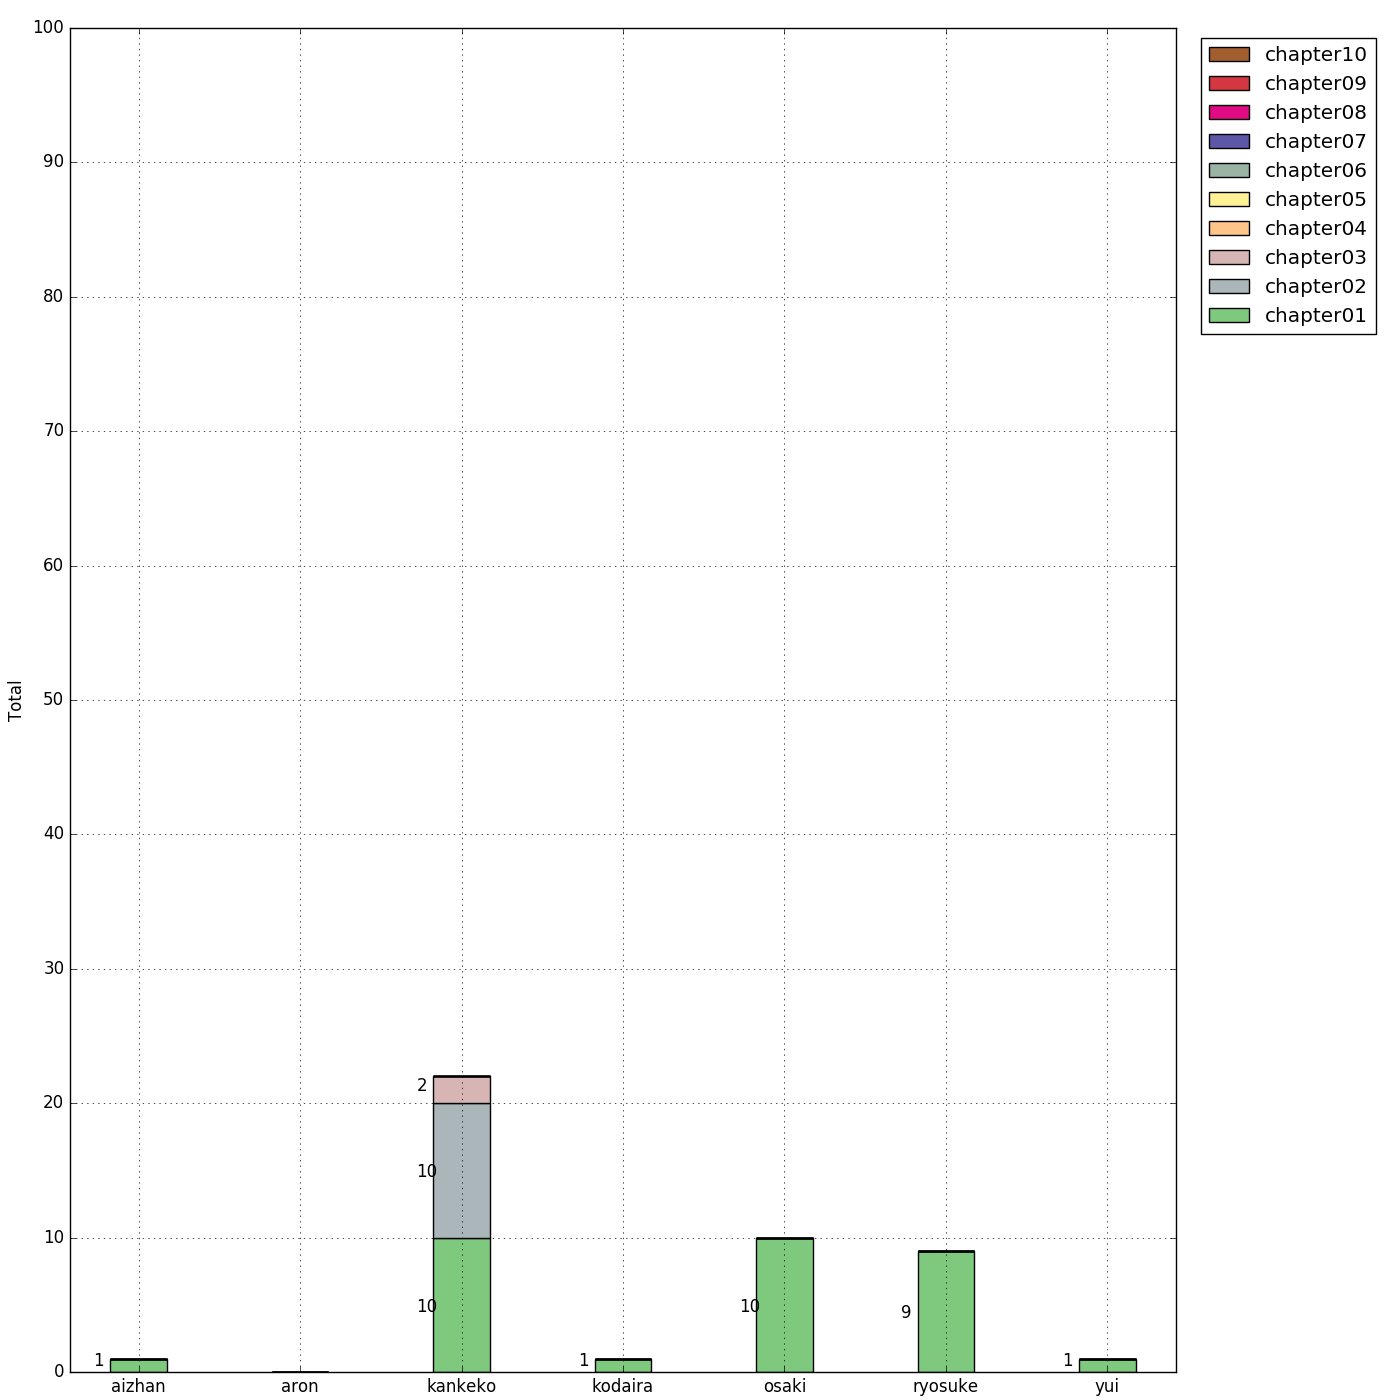
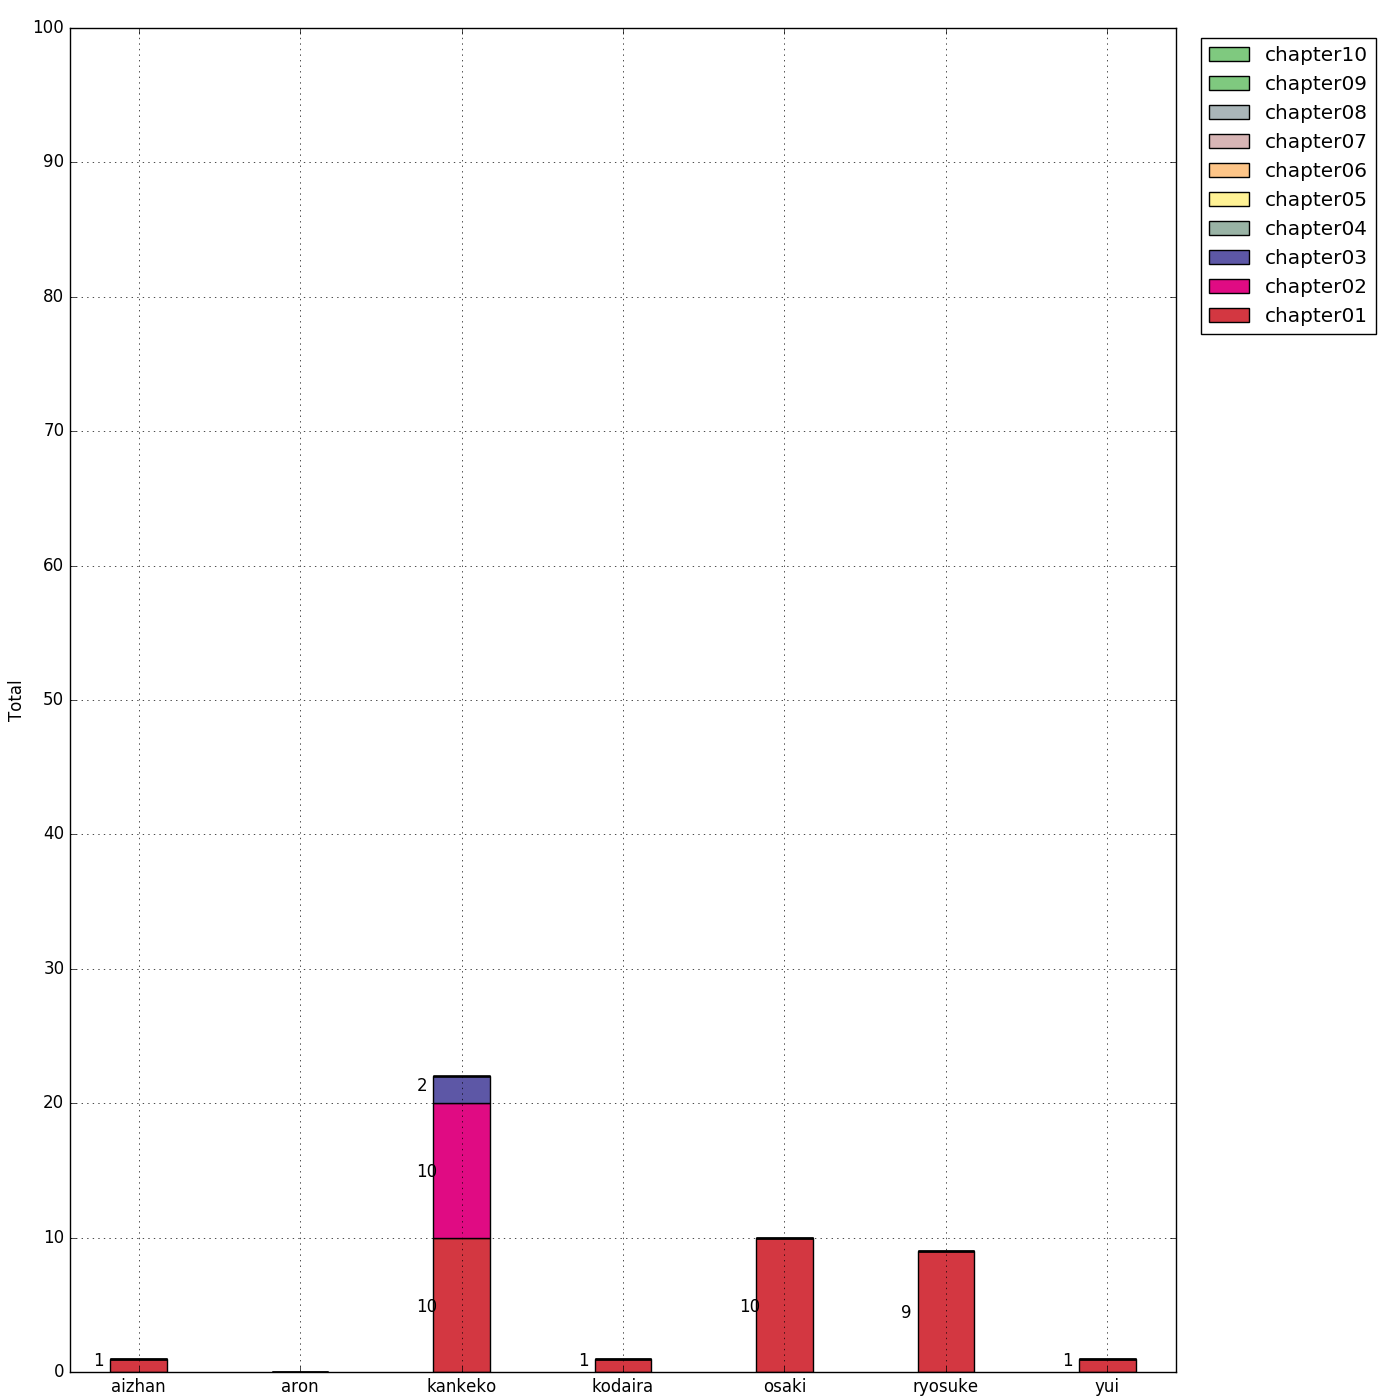
[modify] update color of progress image

diff --git a/calc_progress.py b/calc_progress.py
@@ -33,7 +33,7 @@ for i in range(data.shape[1]):
             data[:, i],       # height
             width,            # width
             bottom,           # offset of height
-            color=cm.Accent(i/10),  # color
+            color=cm.Accent(0.8 - (i/10)),  # color
             label=labels[i]   # label
             )
     for j in range(len(data)):
